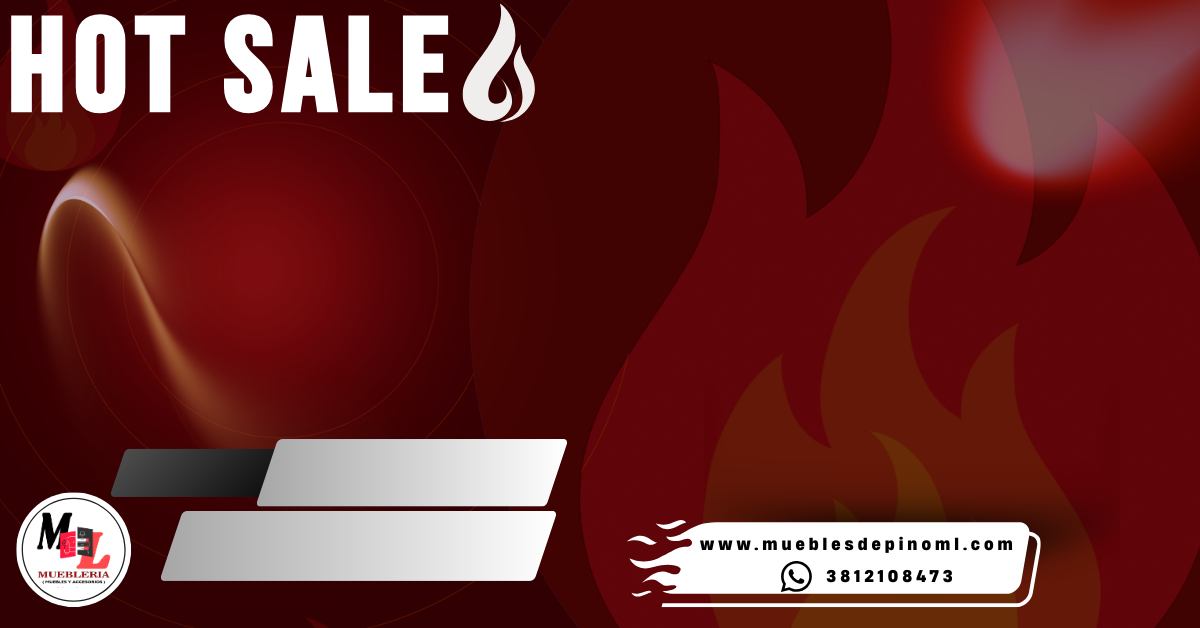
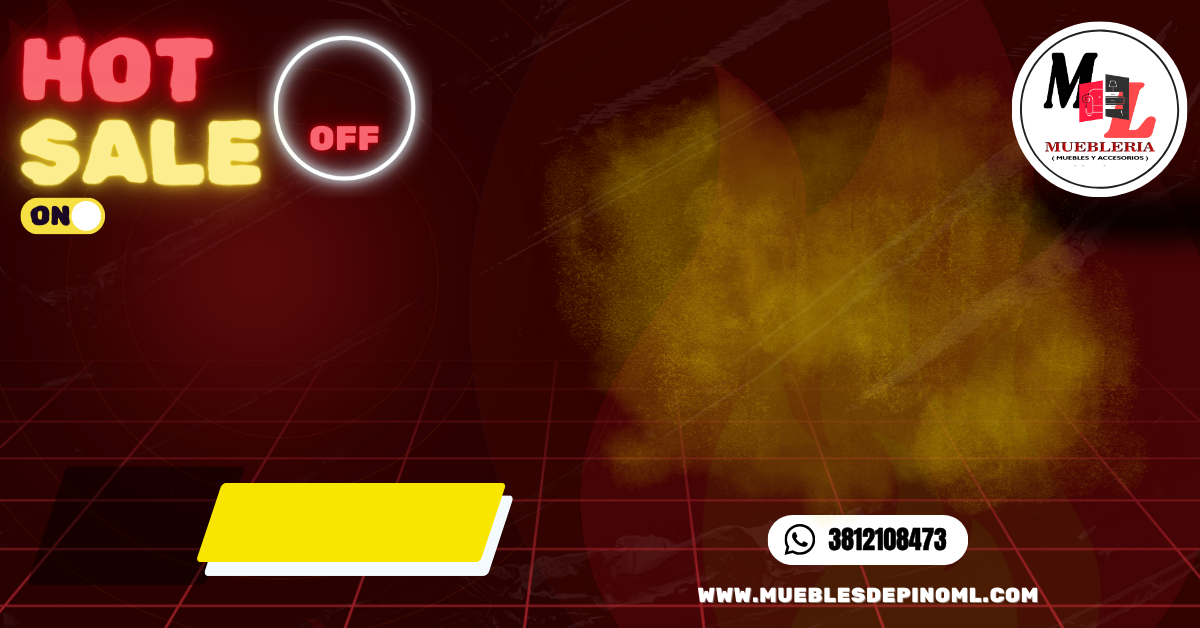
mejoro hotlsale

diff --git a/src/components/Plantillas/HotSale.jsx b/src/components/Plantillas/HotSale.jsx
@@ -148,8 +148,8 @@ const HotSale = ({
           <div
             style={{
               position: "absolute",
-              left: 380,
-              top: 530,
+              left: 350,
+              top: 510,
               transform: "translate(-50%, -50%)",
               textAlign: "center",
               lineHeight: 1,
@@ -181,22 +181,21 @@ const HotSale = ({
             <div
               style={{
                 position: "absolute",
-                left: 125,
-                top: 445,
+                left: 310,
+                top: 60,
                 transform: "rotate(-4deg)",
                 zIndex: 2,
                 fontFamily: "'Rubik', sans-serif",
                 fontWeight: 900,
-                fontSize: 33,
+                fontSize: 40,
                 color: "#ffffff",
                 letterSpacing: -1,
                 lineHeight: 1,
-                textShadow: "0 2px 10px rgba(0,0,0,0.5)",
                 pointerEvents: "none",
                 animation: "slideDown 0.5s ease-out 0.1s both",
               }}
             >
-              {porcentajeDescuento}% OFF
+              {porcentajeDescuento}% 
             </div>
           )}
 
@@ -204,43 +203,45 @@ const HotSale = ({
               PRECIO DE LISTA tachado — debajo de la estrella
           ══════════════════════════════════════════ */}
           {precioLista > 0 && (
-            <div
-              style={{
-                position: "absolute",
-                left: 310,
-                top: 440,
-                display: "flex",
-                alignItems: "center",
-                gap: 8,
-                pointerEvents: "none",
-                animation: "slideUp 0.5s ease-out 1.0s both",
-              }}
-            >
-              <div
-                style={{
-                  fontFamily: "'Rubik', sans-serif",
-                  fontSize: 24,
-                  color: "rgb(13, 12, 12)",
-                  letterSpacing: 1.5,
-                  textTransform: "uppercase",
-                }}
-              >
-                ANTES
-              </div>
-              <div
-                style={{
-                  fontFamily: "'Rubik', sans-serif",
-                  fontSize: 24,
-                  color: "rgb(10, 10, 10)",
-                  textDecoration: "line-through",
-                  lineHeight: 1,
-                  letterSpacing: 1,
-                }}
-              >
-                {fmt(precioLista)}
-              </div>
-            </div>
-          )}
+  <div
+    style={{
+      position: "absolute",
+      left: 70,
+      top: 470,
+      display: "flex",
+      flexDirection: "column",
+      alignItems: "center",
+      gap: 4,
+      pointerEvents: "none",
+      animation: "slideUp 0.5s ease-out 1.0s both",
+    }}
+  >
+    <div
+      style={{
+        fontFamily: "'Rubik', sans-serif",
+        fontSize: 20,
+        color: "rgb(249, 240, 240)",
+        letterSpacing: 1.5,
+        textTransform: "uppercase",
+      }}
+    >
+      ANTES
+    </div>
+
+    <div
+      style={{
+        fontFamily: "'Rubik', sans-serif",
+        fontSize: 24,
+        color: "rgb(249, 240, 240)",
+        textDecoration: "line-through",
+        lineHeight: 1,
+        letterSpacing: 1,
+      }}
+    >
+      {fmt(precioLista)}
+    </div>
+  </div>
+)}
 
           {/* ══════════════════════════════════════════
               NOMBRE DEL PRODUCTO — debajo del título MEGA OFERTA
@@ -249,7 +250,7 @@ const HotSale = ({
             style={{
               position: "absolute",
               left: 330,
-              top: unaLinea ? 130 : 140,
+              top: unaLinea ? 200 : 210,
               transform: "translateX(-50%)",
               fontFamily: "'Rubik', sans-serif",
               fontWeight: 900,
@@ -289,7 +290,7 @@ const HotSale = ({
               style={{
                 position: "absolute",
                 left: 80,
-                top: 280,
+                top: 350,
                 width: 490,
                 fontFamily: "'Rubik', sans-serif",
                 fontSize: descUnaLinea ? 20 : 16,
